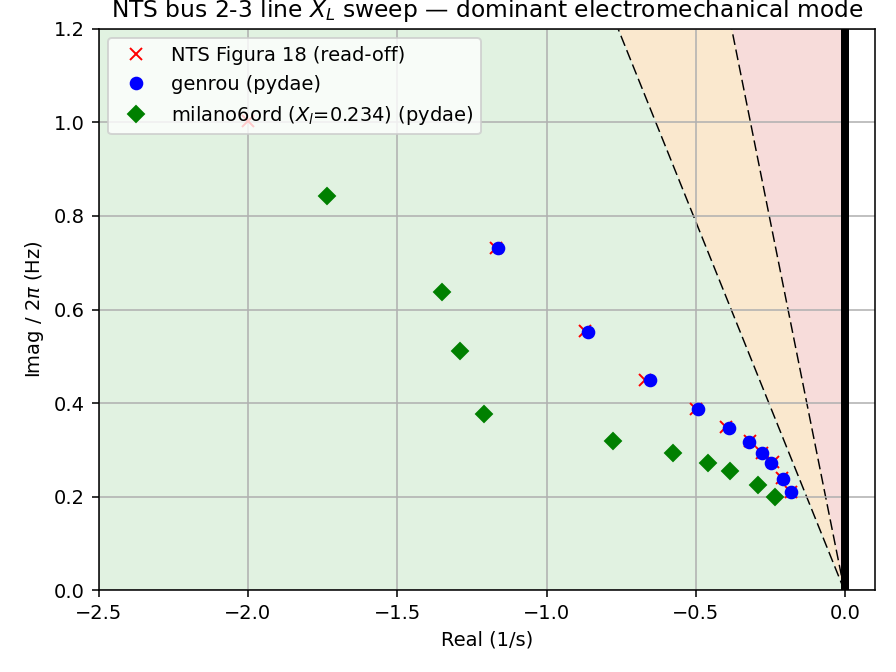
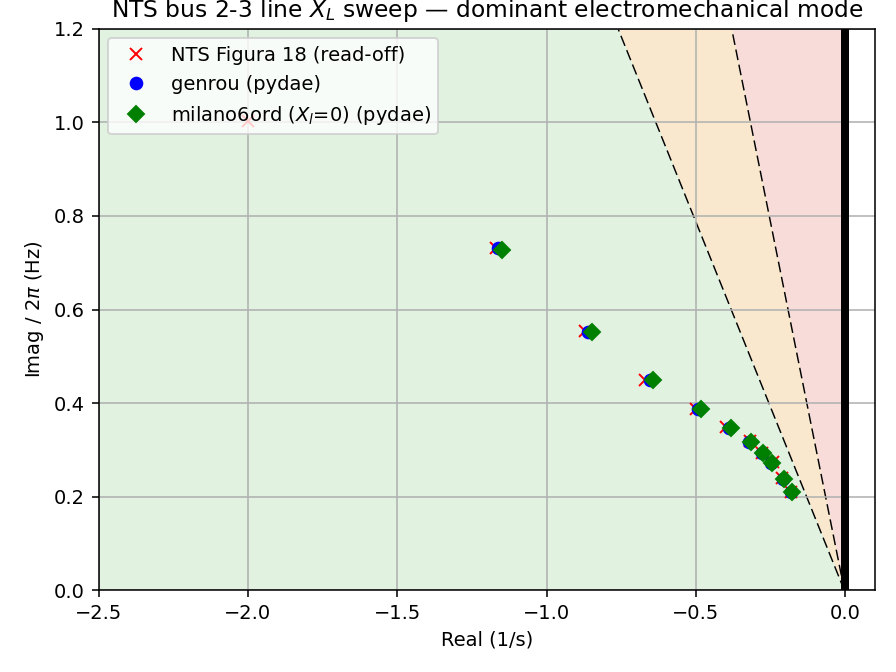
docs(genrou): switch overlay milano6ord comparison to X_l = 0
The NTS-literal X_l = 0.234 milano6ord locus illustrates a parameter
mistake rather than a modelling choice anyone actually uses. The
historical X_l = 0 workaround is the relevant comparison: it shows
that genrou matches the workaround's damping to <0.4 pp at every
X_L (the Marconato rotor cross-coupling is the only residual), and
both trace the NTS Figura 18 locus.

The point being made is now: genrou reaches the right answer from
the literal NTS parameters, without the X_l override.

diff --git a/docs/pydae-bps/models/syns/genrou.md b/docs/pydae-bps/models/syns/genrou.md
@@ -254,12 +254,16 @@ locus:
 
 ![pydae sweep overlaid on NTS Figura 18](genrou_nts_overlay.png)
 
-Red squares are `genrou`; green diamonds are `milano6ord` with the NTS
-literal $X_l = 0.234$; the blue $\times$ / $\circ$ markers are the
-original NTS Figura 18 trajectory. `genrou` lands on the NTS markers
-across the full sweep; `milano6ord` with $X_l = 0.234$ drifts
-substantially to the left (over-damped) and its trajectory bends
-differently. The per-$X_L$ numerical values for both pydae models and
+Red × — NTS Figura 18 read-offs (from the labelled $X_L = 0.01$ and
+$X_L = 0.6$ markers plus visual interpolation along the locus).
+Blue ○ — `genrou`. Green ◆ — `milano6ord` with $X_l = 0$ (the
+historical workaround used in this benchmark before genrou existed).
+The two pydae traces sit on top of each other (residual difference is
+the Marconato rotor cross-coupling, ≲ 0.4 pp damping at any $X_L$) and
+both land on the NTS markers across the whole sweep. The point of
+`genrou` is that it produces this match **without** the user having
+to override NTS Tabla 45's $X_l = 0.234$; the literal NTS parameters
+go straight into `genrou` and the inter-area mode comes out right. The per-$X_L$ numerical values for both pydae models and
 the NTS figure read-offs are tabulated in
 [`autovalores.md`](https://github.com/jmmauricio/benchmarks_public/blob/main/nts/cases/base/autovalores.md)
 in the benchmarks repo and recorded under
